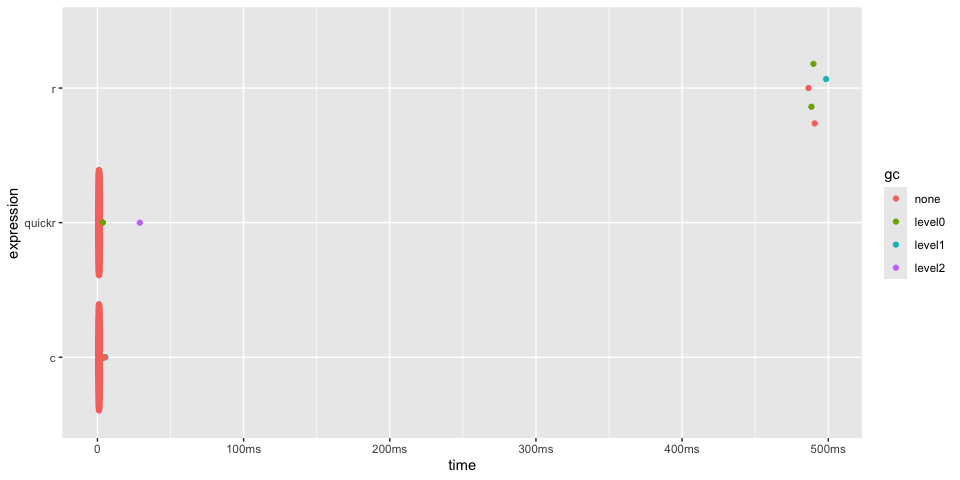
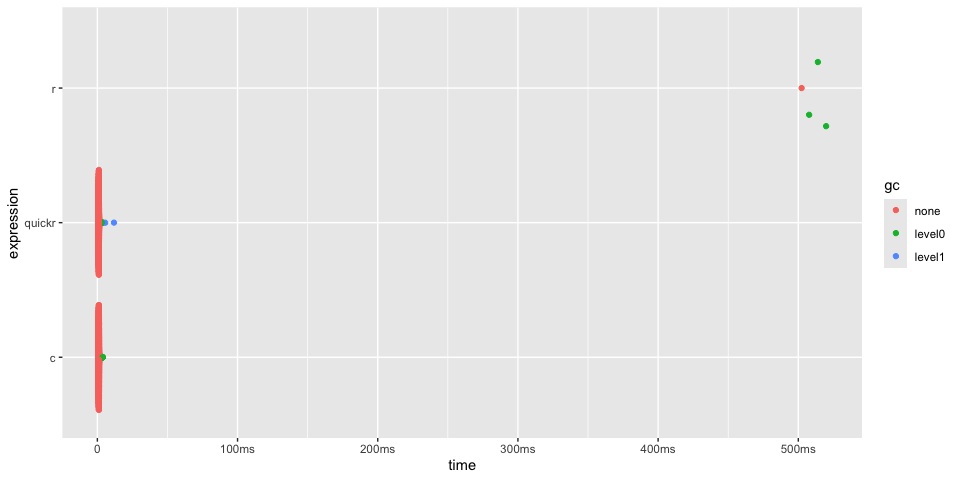
render readme

diff --git a/README.md b/README.md
@@ -140,9 +140,9 @@ timings
 #> # A tibble: 3 × 6
 #>   expression      min   median `itr/sec` mem_alloc `gc/sec`
 #>   <bch:expr> <bch:tm> <bch:tm>     <dbl> <bch:byt>    <dbl>
-#> 1 r             486ms 488.58ms      2.05     782KB     3.07
-#> 2 quickr        914µs   1.08ms    927.       782KB    17.6 
-#> 3 c             939µs   1.08ms    924.       782KB    16.9
+#> 1 r          502.38ms 502.38ms      1.99     847KB     5.97
+#> 2 quickr       1.01ms   1.09ms    918.       782KB    15.3 
+#> 3 c            1.02ms    1.1ms    908.       782KB    15.8
 plot(timings) + bench::scale_x_bench_time(base = NULL)
 ```
 
@@ -301,8 +301,8 @@ timings
 #> # A tibble: 2 × 6
 #>   expression         min   median `itr/sec` mem_alloc `gc/sec`
 #>   <bch:expr>    <bch:tm> <bch:tm>     <dbl> <bch:byt>    <dbl>
-#> 1 slow_viterbi   62.52µs  76.38µs    12597.    1.59KB     27.4
-#> 2 quick_viterbi   1.68µs   1.93µs   485963.        0B     48.6
+#> 1 slow_viterbi   67.49µs  73.31µs    13362.     178KB     34.9
+#> 2 quick_viterbi   1.97µs   2.09µs   459831.        0B      0
 plot(timings)
 ```
 
@@ -393,8 +393,8 @@ summary(timings, relative = TRUE)
 #> # A tibble: 2 × 6
 #>   expression           min median `itr/sec` mem_alloc `gc/sec`
 #>   <bch:expr>         <dbl>  <dbl>     <dbl>     <dbl>    <dbl>
-#> 1 diffuse_heat        6.56   8.90      1        4893.      Inf
-#> 2 quick_diffuse_heat  1      1         7.31        1       NaN
+#> 1 diffuse_heat        4.80   2.55      1        4893.      Inf
+#> 2 quick_diffuse_heat  1      1         2.57        1       NaN
 plot(timings)
 ```
 
@@ -440,9 +440,9 @@ timings
 #> # A tibble: 3 × 6
 #>   expression      min   median `itr/sec` mem_alloc `gc/sec`
 #>   <bch:expr> <bch:tm> <bch:tm>     <dbl> <bch:byt>    <dbl>
-#> 1 r           67.78ms  69.31ms      9.88  124.24MB    15.8 
-#> 2 rcpp         5.87ms   6.22ms    158.      4.46MB     2.00
-#> 3 quickr       2.15ms   2.28ms    434.    781.35KB     3.96
+#> 1 r           68.99ms  85.28ms      9.23  124.31MB    14.8 
+#> 2 rcpp         6.12ms   6.45ms    151.      4.46MB     1.99
+#> 3 quickr       2.41ms   2.54ms    390.    781.35KB     4.00
 
 timings$expression <- factor(names(timings$expression), rev(names(timings$expression)))
 plot(timings) + bench::scale_x_bench_time(base = NULL)
@@ -556,10 +556,10 @@ timings
 #> # A tibble: 4 × 6
 #>   expression         min   median `itr/sec` mem_alloc `gc/sec`
 #>   <bch:expr>    <bch:tm> <bch:tm>     <dbl> <bch:byt>    <dbl>
-#> 1 reference      11.03ms  11.96ms      83.5    29.6MB     78.3
-#> 2 RcppArmadillo   1.64ms   1.92ms     497.         0B      0  
-#> 3 plain R         1.31ms   1.79ms     550.     13.2MB    119. 
-#> 4 quickr        934.96µs   1.02ms     933.         0B      0
+#> 1 reference      11.71ms  12.54ms      79.0    29.6MB   136.  
+#> 2 RcppArmadillo   1.87ms   2.08ms     471.         0B     0   
+#> 3 plain R          1.6ms   1.85ms     536.     13.3MB   184.  
+#> 4 quickr          1.01ms   1.09ms     882.         0B     2.01
 plot(timings) + ggplot2::scale_y_discrete(limits = rev(c( 
   "reference", "RcppArmadillo", "plain R", "quickr"
 )))
